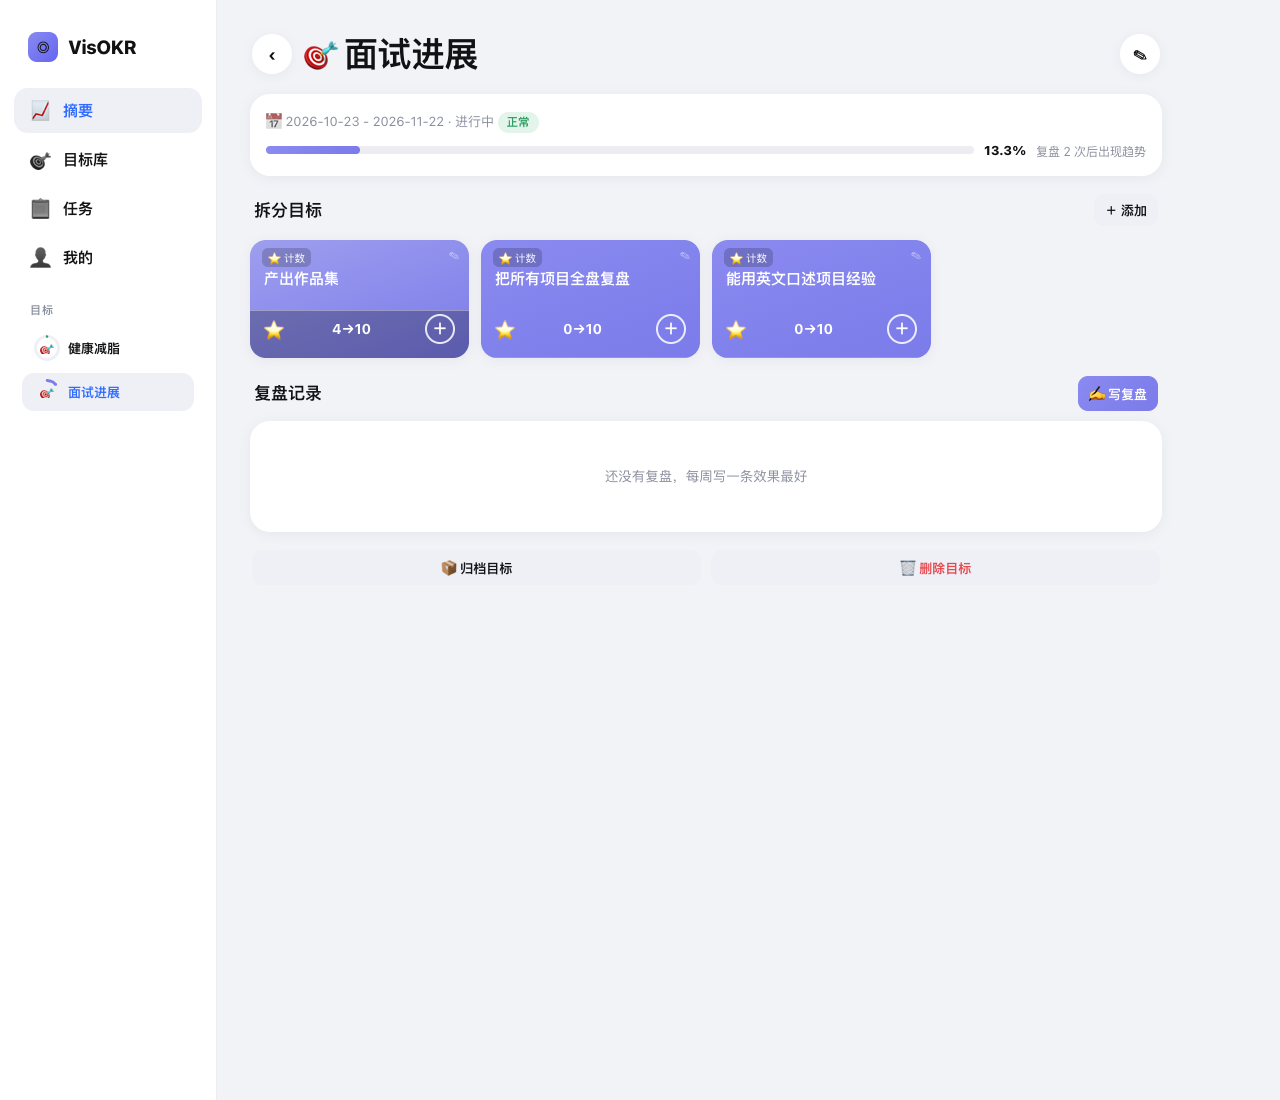
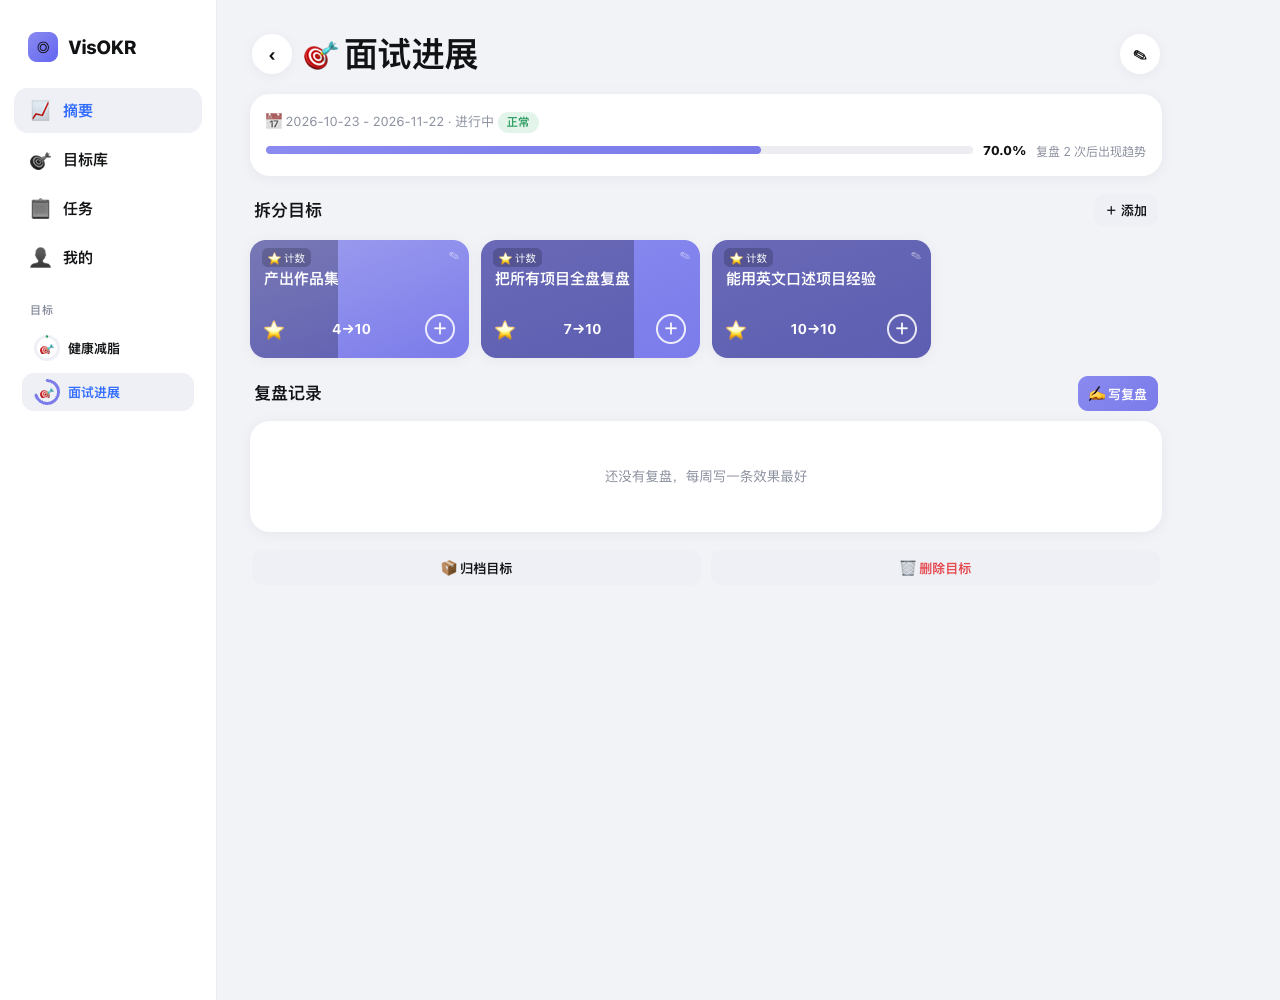
v4.13：拆分卡进度填充改为从左到右、去掉分界灰线（页面标注）

diff --git a/index.html b/index.html
@@ -120,7 +120,7 @@ a{color:var(--accent)}
 }
 .ckrow{display:flex;align-items:center;gap:8px;margin-top:12px;font-size:14px;font-weight:700;cursor:pointer}
 .ckrow input[type=checkbox]{width:19px;height:19px;accent-color:var(--purple);flex:none}
-.sg .sgfill{position:absolute;left:0;right:0;bottom:0;z-index:0;background:rgba(0,0,0,.26);border-top:1.5px solid rgba(255,255,255,.35);transition:height .45s ease;pointer-events:none}
+.sg .sgfill{position:absolute;left:0;top:0;bottom:0;width:0;z-index:0;background:rgba(0,0,0,.24);transition:width .45s ease;pointer-events:none;border-radius:16px 0 0 16px}
 .sg .t,.sg .b{position:relative;z-index:1}
 .sg .sgp,.sg .mini{z-index:1}
 .sg .mini{position:absolute;top:8px;right:10px;font-size:11px;opacity:.85}
@@ -916,7 +916,7 @@ function sgCard(s,c){
     '<div class="b"><span>'+(ty==="count"?"⭐":ty==="decrease"?"↘":ty==="bool"?(cur>=1?"✅":"⬜"):"")+'</span>'+
     '<span class="cnt">'+sgDisplay(s)+'</span>'+
     (driven?'<span class="sgauto">🔗 任务自动</span>':'<button class="plus" data-bump="'+s.id+'">'+(ty==="bool"&&cur>=1?"↺":"＋")+'</button>')+'</div>'+
-    '<span class="sgfill" style="height:'+sgProg(s).toFixed(1)+'%"></span></div>';
+    '<span class="sgfill" style="width:'+sgProg(s).toFixed(1)+'%"></span></div>';
 }
 
 /* ---------- 目标库 ---------- */

diff --git a/sw.js b/sw.js
@@ -1,5 +1,5 @@
 /* VisOKR · 极简离线缓存：App Shell 优先；跨域 API（GitHub 同步）绝不缓存 */
-const CACHE = "visokr-v23";
+const CACHE = "visokr-v24";
 const ASSETS = ["./", "./index.html", "./manifest.webmanifest",
                 "./icons/icon-32.png", "./icons/icon-180.png",
                 "./icons/icon-192.png", "./icons/icon-512.png",
